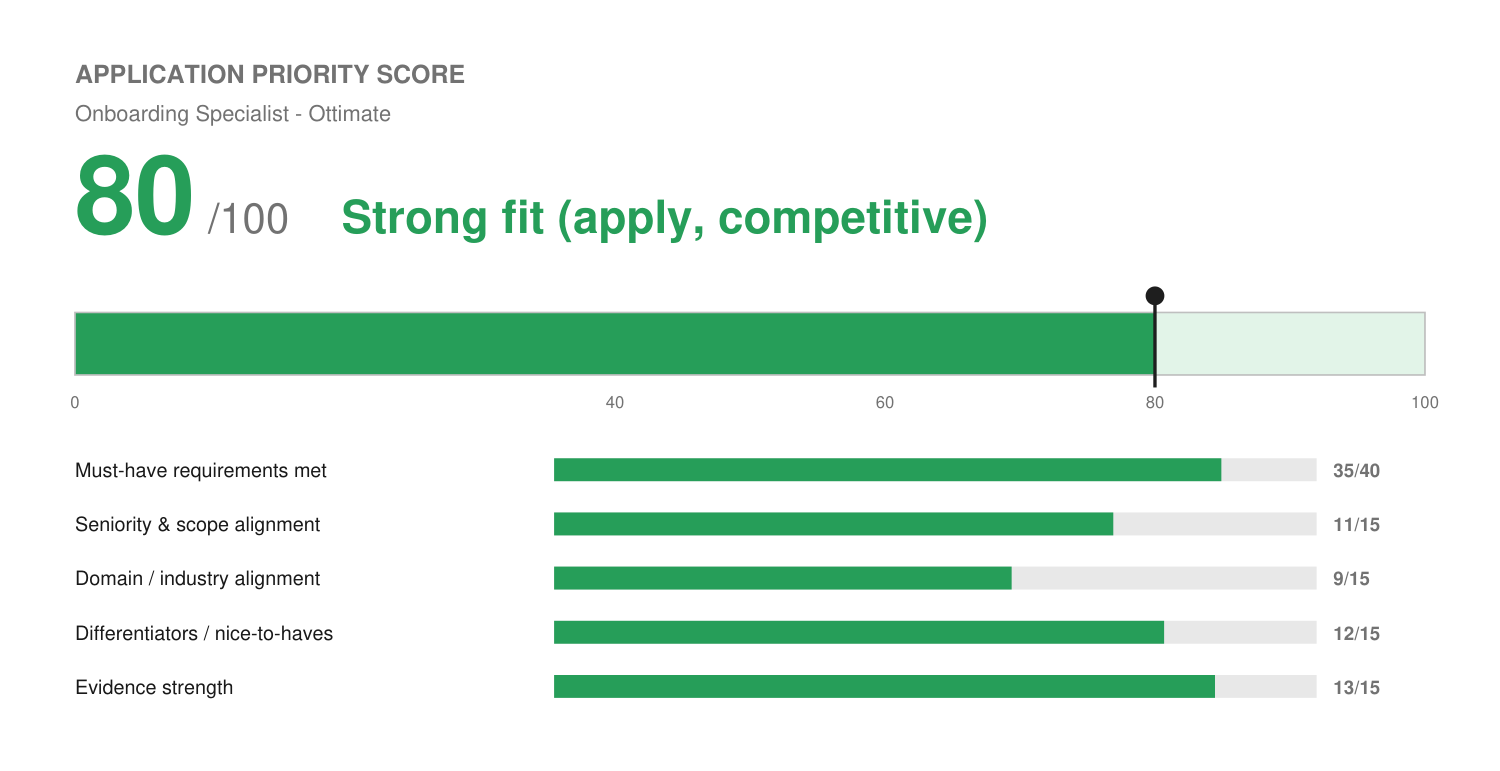
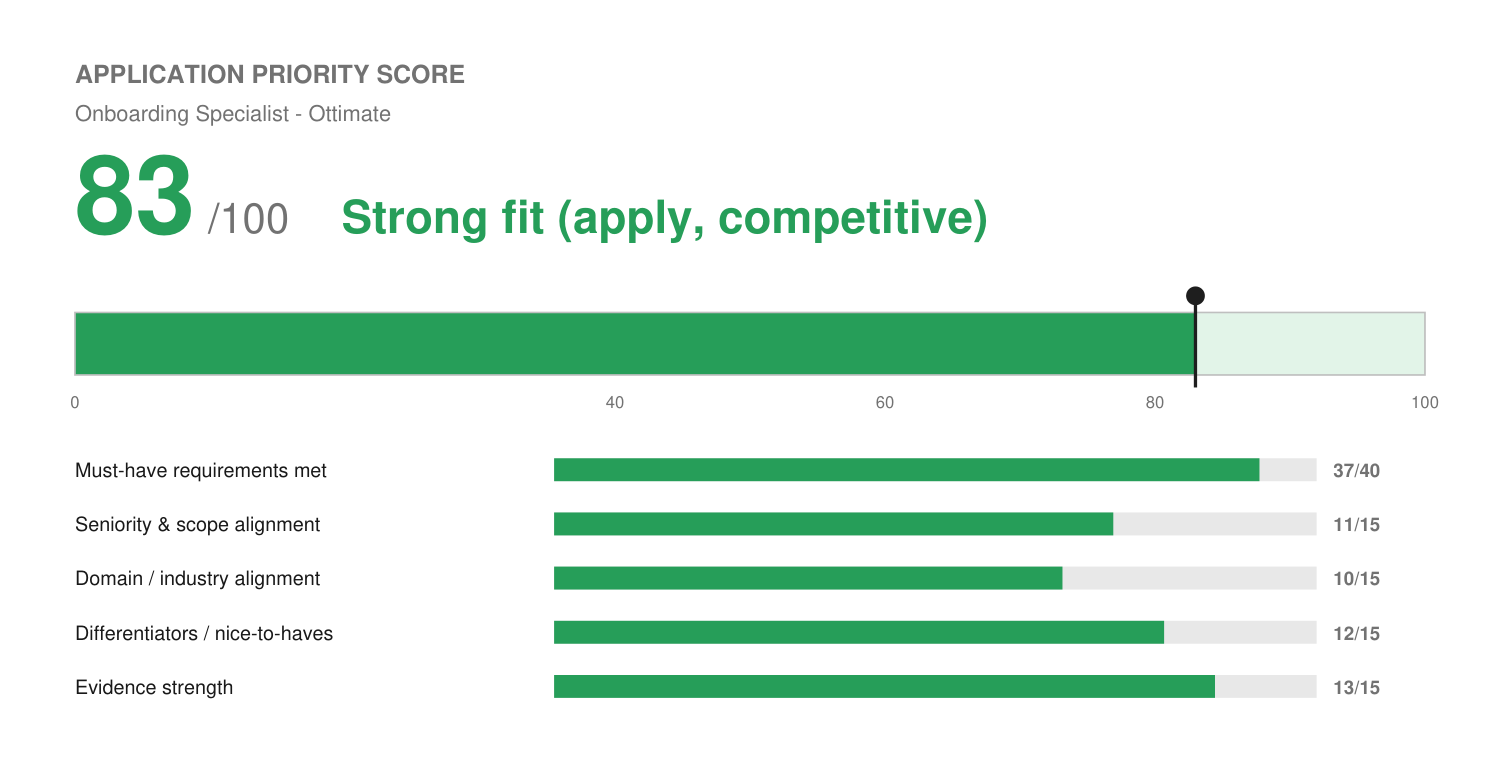
Ottimate Onboarding Specialist: score 83 after confirmations; profile adds 50+ presentations and Accelo invoicing/billing
Claude-Session: https://claude.ai/code/session_018DEej5NGjq1omj9BTtvEiy

diff --git a/applications/ottimate-onboarding-specialist/match-report.md b/applications/ottimate-onboarding-specialist/match-report.md
@@ -26,16 +26,16 @@ No knockout. No cap applied. No video answer required.
 
 ## Application Priority Score
 
-⚪ **80 / 100 — Strong fit (apply, competitive)**
-`[████████████████░░░░]  80%`
+⚪ **83 / 100 — Strong fit (apply, competitive)**
+`[█████████████████░░░]  83%`
 
 *Internal decision aid, not a prediction of Ottimate's screening outcome.* See `fit.png`.
 
 | Dimension | Score | Max |
 | :--- | :---: | :---: |
-| Must-have requirements met | 35 | 40 |
+| Must-have requirements met | 37 | 40 |
 | Seniority & scope alignment | 11 | 15 |
-| Domain / industry alignment | 9 | 15 |
+| Domain / industry alignment | 10 | 15 |
 | Differentiators / nice-to-haves | 12 | 15 |
 | Evidence strength | 13 | 15 |
 
@@ -55,13 +55,13 @@ Function match is close to literal (onboarding + training + adoption tracking + 
 | Map and re-engineer client workflows | Strong | Solenzo workflow re-engineering; Accelo sequenced implementation plans |
 | Critical path, on-time go-lives, risk escalation | Strong | Wix on-time launches; Accelo early escalation |
 | Translate technical into simple steps | Strong | Solenzo 18 plain-language articles; hands-on training for non-technical owners |
-| Presentations 1:1 through 50+ | Adjacent | Team training for up to 30; client workshops; conventions. 50+ audience not documented |
-| AP lifecycle / B2B financial ops (preferred) | Gap | See below |
+| Presentations 1:1 through 50+ | Strong | Josh confirmed presenting to groups of 50+ (Oct 2026); Wix team training up to 30; Accelo client workshops |
+| AP lifecycle / B2B financial ops (preferred) | Adjacent (partial) | Accelo invoicing/billing features walked through with clients; no AP operations |
 | Multiple projects, tight deadlines | Strong | Wix ~25 concurrent onboardings, 25+ launches/month |
 | Salesforce | Strong | Birdeye, Wix, Fivestars |
 | Analytical, detail-oriented | Strong | Reporting, dashboards, Wix CRM field definitions |
 
-**Must-haves:** 7 of 8 strongly evidenced; presentation-to-50+ adjacent.
+**Must-haves:** 8 of 8 evidenced.
 
 ## Top Strengths
 1. Wix: 25+ launches/month at 110% of implementation target, plus training teams of up to 30.
@@ -69,12 +69,12 @@ Function match is close to literal (onboarding + training + adoption tracking + 
 3. Solenzo: the literal job (manual workflows mapped and rebuilt as automation, then trained).
 
 ## Gaps
-- **Accounts Payable / finance operations:** no AP, invoice-to-payment, or finance-team experience. Preferred, not required. Addressed directly in the cover letter. Closest real adjacency: selling/scoping Accelo (CRM/PSA) to professional-services firms; banking client at Fetch & Funnel (marketing side, not AP).
+- **Accounts Payable / finance operations:** no AP, invoice-to-payment, or finance-team experience. Preferred, not required. Addressed directly in the cover letter. Closest real adjacency: walking professional-services firms through Accelo's invoicing and billing features; banking client at Fetch & Funnel (marketing side, not AP).
 - **Seniority read:** 15+ years for a 1-5 year role. Not a gap, but a screener risk; resume keeps the focus on onboarding work, not titles.
 
 ## Candidate Confirmation Needed
-- **Largest audience presented to.** Has Josh presented to a group of 50+ (convention, webinar, all-hands, Wix team training)? If yes, add to profile and a bullet.
-- **Accelo invoicing/billing.** Did Josh demo or implement Accelo's invoicing/billing modules for clients? If yes, it is the closest real AP-adjacent evidence available.
+- Resolved Oct 5, 2026: Josh confirmed presenting to groups of 50+ and walking clients through Accelo's invoicing/billing features. Both added to `master-profile.md`, the resume, and the cover letter.
+- Still open: where the 50+ presentations happened (employer/venue), and whether Accelo billing work included hands-on configuration or demo only.
 
 ## Metrics Needed
 - Birdeye adoption lift or churn reduction from interventions (number or range).

diff --git a/profile/master-profile.md b/profile/master-profile.md
@@ -605,6 +605,12 @@ operator talking, not like a candidate performing.
 > conventions for Accelo. Claim as "supported client events and industry conventions";
 > don't claim he planned or ran them.
 >
+> **Invoicing/billing features (confirmed by Josh, Oct 2026):** demoed and/or set up
+> Accelo's invoicing and billing modules for clients. Closest real evidence for AP/billing
+> postings, scoped honestly: a PSA tool's billing side for professional-services firms, not
+> AP operations or finance-team work. Exact split between demo and hands-on configuration
+> not captured; phrase as "walked clients through" unless Josh confirms config.
+>
 > **Zapier automation (confirmed by Josh, Sep 2026):** Josh built Zapier automations at
 > Accelo, making his hands-on automation-building history run from at least 2018-2020
 > through the present at Solenzo, not a skill that started recently.
@@ -615,6 +621,7 @@ operator talking, not like a candidate performing.
 - Guided client onboarding, workflow design, and API integrations, building relationships with C-Suite executives as a trusted advisor on operational system design.
 - Advised clients on CRM adoption, building scalable operational systems aligned to their growth stage and team structure.
 - Guided onboarding alongside implementation teams, troubleshooting workflow design and resolving technical challenges during setup.
+- Walked clients through Accelo's invoicing and billing features, showing how time, projects, and billing connect in one system. *(Confirmed by Josh, Oct 2026.)*
 - Escalated issues to leadership early and mitigated account-level risk with direct strategic guidance.
 - Consistently performed above commission floor into accelerator ("doubling") tiers — averaging **~$17,750/month in implementation/services bookings (~$213K annualized)** plus new recurring revenue, earning roughly **$9,300 in monthly performance commission**.
 
@@ -666,6 +673,10 @@ operator talking, not like a candidate performing.
 ---
 
 ## Core Competencies Bank (mix & match to the job)
+
+> **Presenting to 50+ (confirmed by Josh, Oct 2026):** has presented to groups of 50 or
+> more. Venue/employer not captured; claim as "presented to groups of 50+" without
+> attributing it to a specific role until Josh says where.
 
 > **Forecasting / pipeline-stage awareness (confirmed by Josh, Sep 2026):** knowing where
 > an opportunity sits in the sales process has been part of every sales role Josh has
